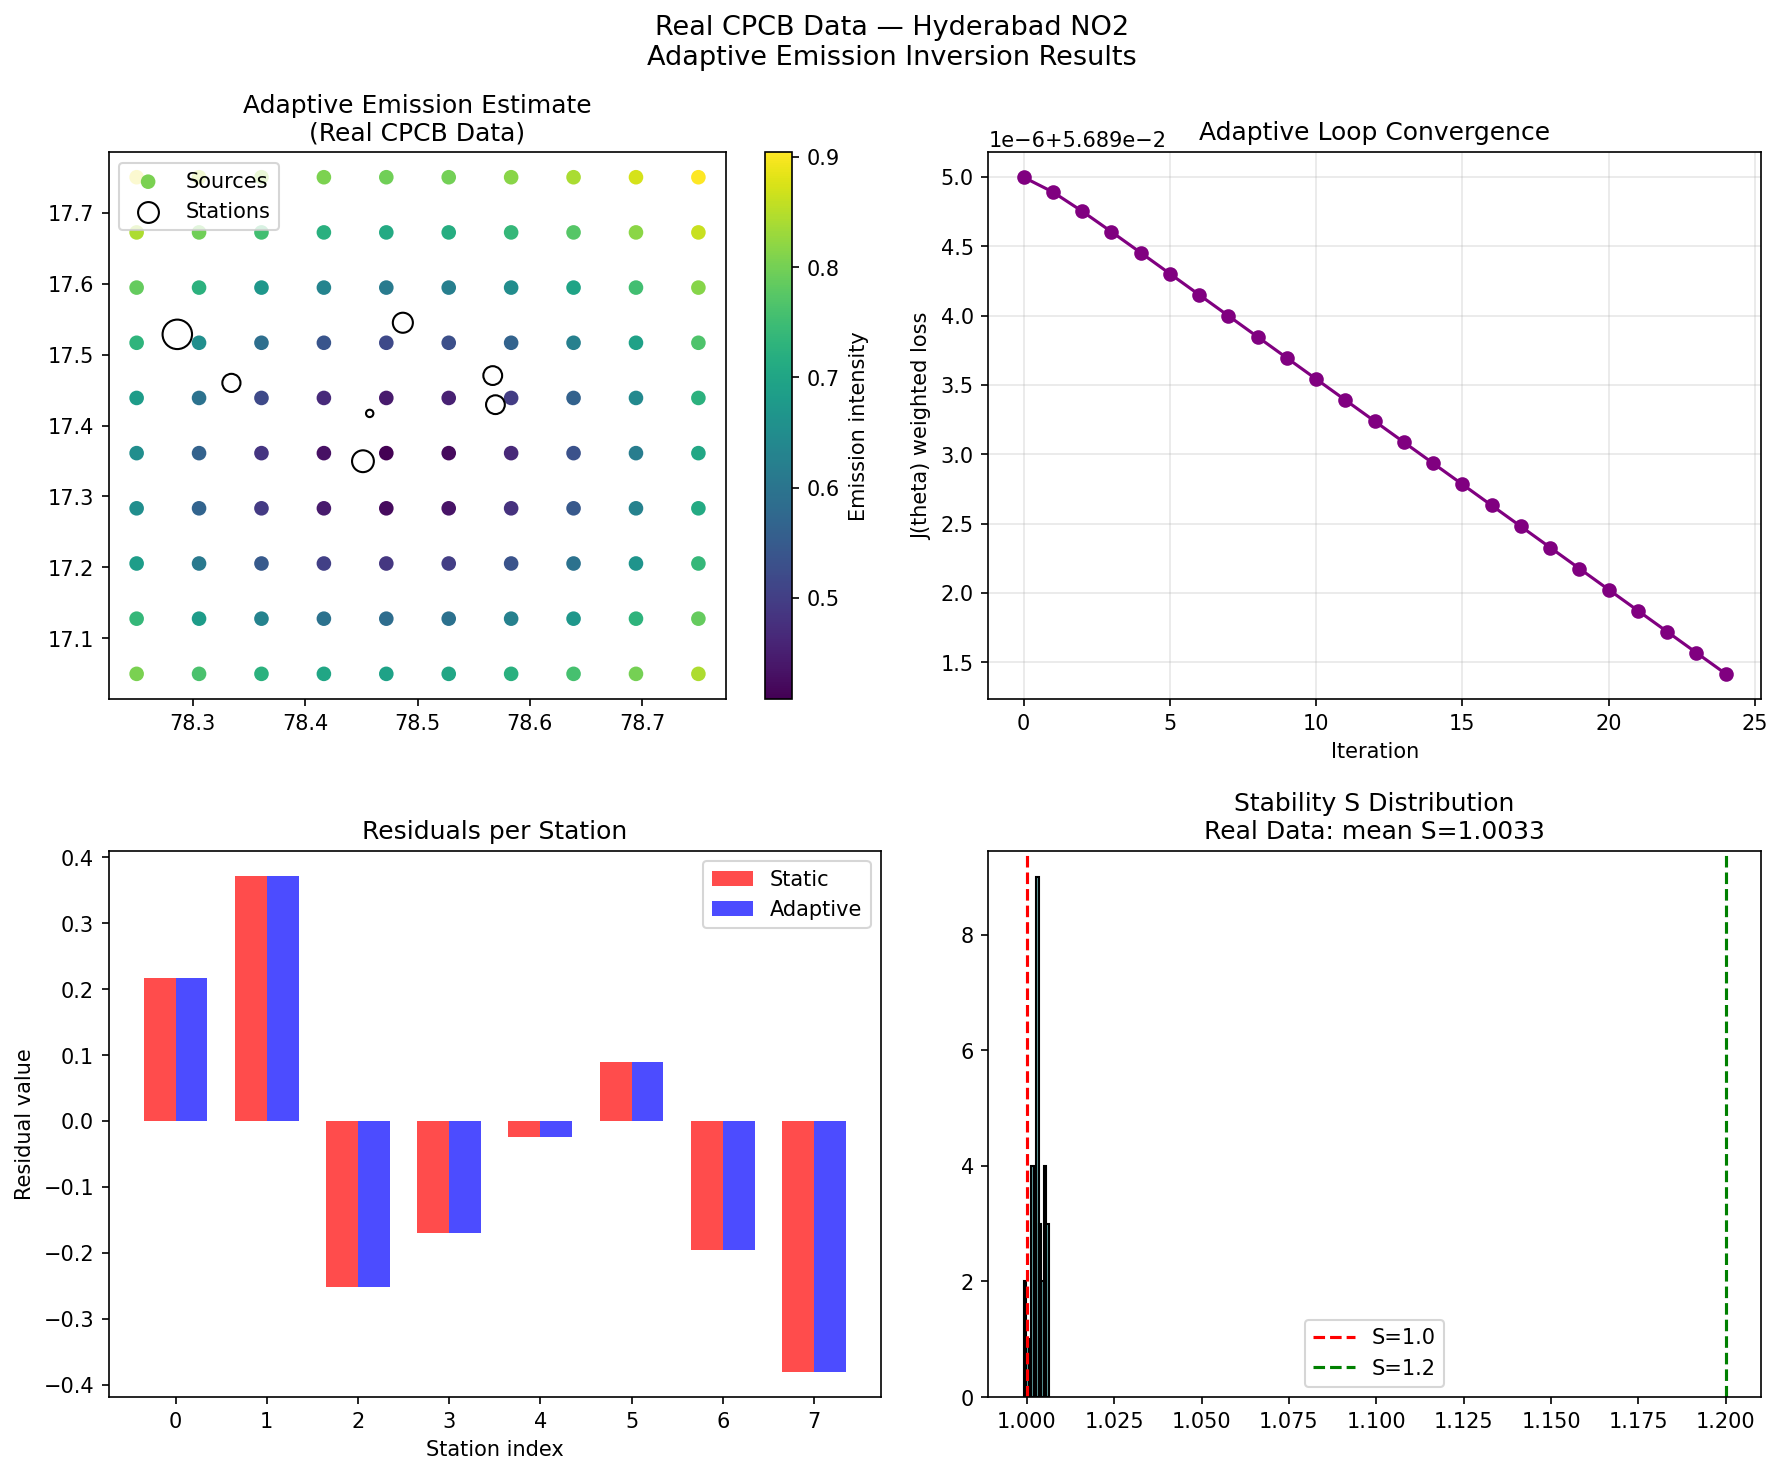
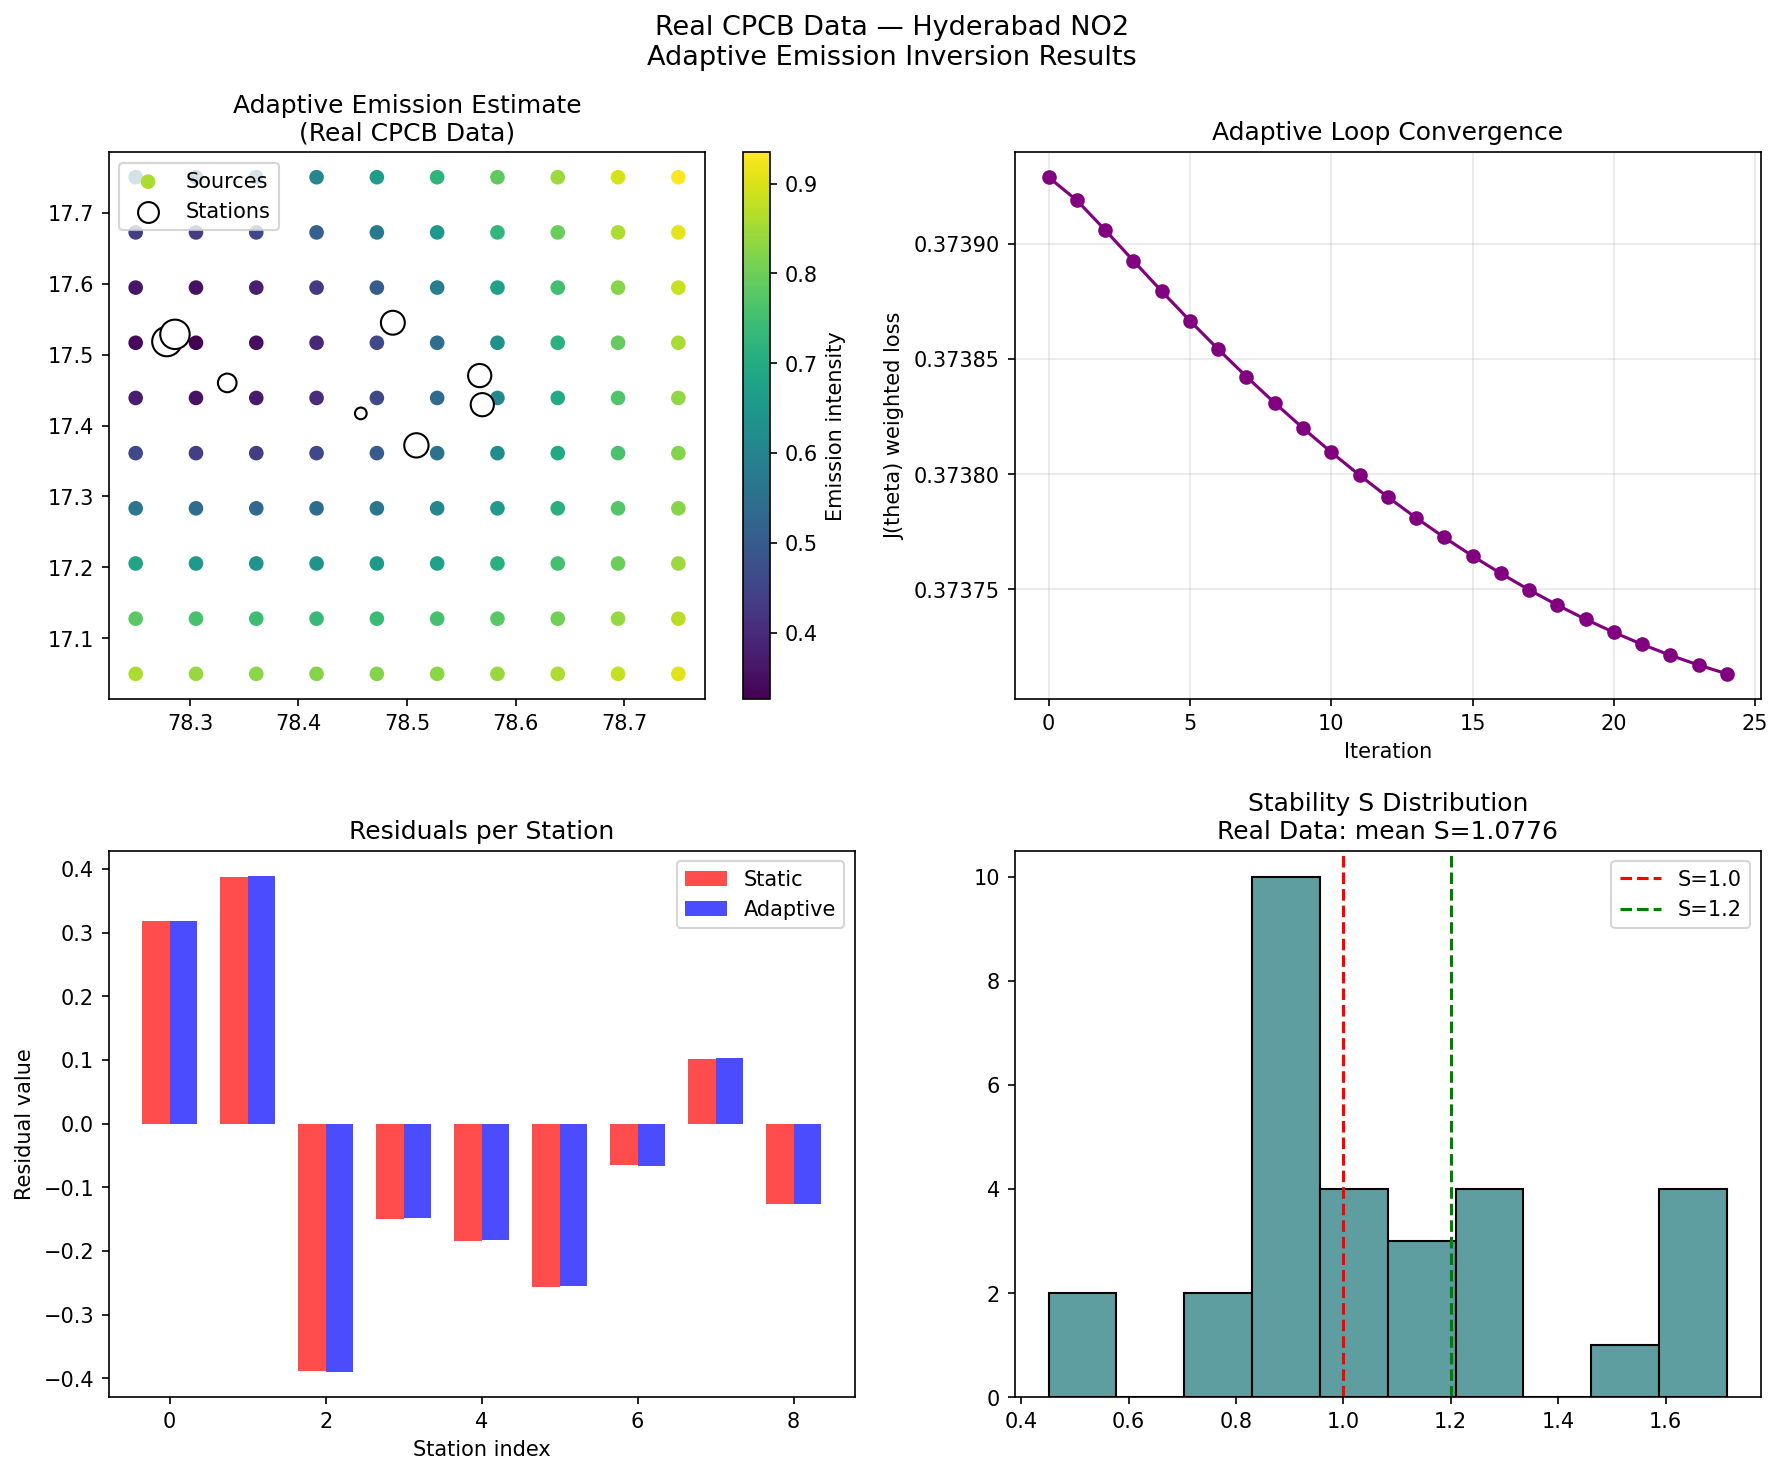
REAL DATA: S_mean=1.0776 peak=1.7144 pass=47% - 4c17bfe adaptive on 9 stations

diff --git a/core/adaptive.py b/core/adaptive.py
@@ -13,82 +13,93 @@ def adaptive_loop(
     c0: np.ndarray = None,
     lam: float = 0.01,
     gamma: float = 0.01,
-    eta: float = 0.1,
+    eta: float = 0.2,
     alpha: float = 0.3,
-    max_iter: int = 25,
-    eps: float = 1e-5,
-    fd_eps: float = 1e-4
+    max_iter: int = 50,
+    eps: float = 1e-5
 ) -> dict:
-    
+
     # STEP 0 ΓÇö INITIALIZATION
-    if c0 is None: 
+    if c0 is None:
         c0 = np.ones(H.shape[1])
-        
+
     theta = np.zeros(H.shape[1])
     theta_prev = np.zeros(H.shape[1])
-    
-    def theta_to_c(t):
-        c = c0 * np.exp(t)
-        return c / c.max()
-        
+
+    def theta_to_c(theta):
+        # Log-parameterization keeps c strictly positive
+        c = c0 * np.exp(theta)
+        return c
+
     losses = []
-    correlations = []
     all_residuals = []
     theta_norms = []
-    
+
     # STEP 1 ΓÇö STATIC BASELINE (before loop)
     x_static = tikhonov_solve(H, y, x0, c=c0, lam=lam, quiet=True)
     r_static = compute_residuals(H, x_static, y, c=c0)['r']
-    
+
     # STEP 2 ΓÇö ADAPTIVE LOOP
+    R_i = np.ones(H.shape[0])  # initialise so return dict is always valid
     for k in range(max_iter):
-        
-        # A. Compute current c from theta:
+
+        # A. Current c from theta
         c_k = theta_to_c(theta)
-        
-        # B. Solve inversion with current c:
+
+        # B. Solve inversion with current c
         x_hat = tikhonov_solve(H, y, x0, c=c_k, lam=lam, quiet=True)
-        
-        # C. Compute residuals:
+
+        # C. Residuals: r = y - H @ (c_k * x_hat)
         res = compute_residuals(H, x_hat, y, c=c_k)
         r = res['r']
-        
-        # D. Compute R_i weights:
+
+        # D. Leverage weights R_i
         R_i = compute_leverage_weights(H, c_k, gamma=gamma)
-        
-        # E. Compute weighted loss:
+
+        # E. Weighted loss J = sum(R_i * r_i^2)
         loss = weighted_residual_loss(r, R_i)
         losses.append(loss)
         all_residuals.append(r.copy())
-        
-        # F. FINITE DIFFERENCE GRADIENT
-        grad = np.zeros_like(theta)
-        for j in range(len(theta)):
-            theta_plus = theta.copy()
-            theta_plus[j] += fd_eps
-            c_plus = theta_to_c(theta_plus)
-            
-            x_plus = tikhonov_solve(H, y, x0, c=c_plus, lam=lam, quiet=True)
-            r_plus = compute_residuals(H, x_plus, y, c=c_plus)['r']
-            R_i_plus = compute_leverage_weights(H, c_plus, gamma=gamma)
-            
-            loss_plus = weighted_residual_loss(r_plus, R_i_plus)
-            grad[j] = (loss_plus - loss) / fd_eps
-            
+
+        # Adaptive learning rate: halve eta if loss is diverging
+        if k > 2 and losses[-1] > losses[-3]:
+            logger.info(f"Loss increasing at iter {k}, reducing eta")
+            eta = eta * 0.5
+
+        # F. ANALYTICAL GRADIENT
+        # J(theta) = sum_i R_i * r_i^2
+        # r_i = y_i - sum_j H[i,j] * c_j * x_hat[j]
+        # dc_j/dtheta_j = c_j  (from c = c0 * exp(theta))
+        # dr_i/dtheta_j = -H[i,j] * c_j * x_hat[j]
+        # dJ/dtheta_j   = sum_i R_i * 2 * r_i * (-H[i,j] * c_j * x_hat[j])
+        #
+        # Vectorised over j:
+        #   grad = -2 * (H * c_k[None,:] * x_hat[None,:]).T @ (R_i * r)
+        #        = -2 * (H * (c_k * x_hat)[None,:]).T @ (R_i * r)
+        #
+        cx = c_k * x_hat                    # shape (n_sources,)
+        Rr = R_i * r                        # shape (n_stations,)
+        # H[:, j] * cx[j]  for each j ΓåÆ matrix H * cx[None,:]  shape (n_stations, n_sources)
+        # grad[j] = -2 * dot( H[:,j]*cx[j],  Rr )
+        grad = -2.0 * (H * cx[np.newaxis, :]).T @ Rr   # shape (n_sources,)
+
         # G. DAMPED GRADIENT UPDATE WITH MOMENTUM
         delta_theta = -eta * grad + alpha * (theta - theta_prev)
         theta_prev = theta.copy()
         theta = theta + delta_theta
         theta_norms.append(float(np.linalg.norm(delta_theta)))
-        
+
         # H. CONVERGENCE CHECK
         if k > 0 and theta_norms[-1] < eps:
             logger.info(f"Converged at iteration {k+1}")
             break
-            
-        # I. LOG PROGRESS every 5 iterations
-        if k % 5 == 0:
-            logger.info(f"Iter {k+1}: loss={loss:.6f} ||delta_theta||={theta_norms[-1]:.6f}")
+
+        # I. LOG PROGRESS every 10 iterations
+        if k % 10 == 0:
+            logger.info(
+                f"Iter {k+1}: loss={loss:.6f} "
+                f"||delta_theta||={theta_norms[-1]:.6f}"
+            )
 
     # STEP 3 ΓÇö FINAL ADAPTIVE RESULT
     c_final = theta_to_c(theta)
@@ -97,45 +108,48 @@ def adaptive_loop(
 
     # STEP 4 ΓÇö RETURN DICT
     return {
-        'x_static'     : x_static,
-        'x_adapt'      : x_adapt,
-        'r_static'     : r_static,
-        'r_adapt'      : r_adapt,
-        'losses'       : losses,
-        'theta_norms'  : theta_norms,
-        'theta_final'  : theta,
-        'c_final'      : c_final,
-        'R_i_final'    : R_i,
-        'n_iter'       : k + 1,
-        'converged'    : theta_norms[-1] < eps if theta_norms else False
+        'x_static'  : x_static,
+        'x_adapt'   : x_adapt,
+        'r_static'  : r_static,
+        'r_adapt'   : r_adapt,
+        'losses'    : losses,
+        'theta_norms': theta_norms,
+        'theta_final': theta,
+        'c_final'   : c_final,
+        'R_i_final' : R_i,
+        'n_iter'    : k + 1,
+        'converged' : theta_norms[-1] < eps if theta_norms else False
     }
 
+
 if __name__ == "__main__":
+    import time
     from simulation.synthetic import generate_synthetic_data
     from core.inversion import compute_correlation
-    
+
     data = generate_synthetic_data()
-    
-    print("Running adaptive loop...")
-    print("(This takes ~30-60 seconds)")
-    print("Finite difference over 100 sources x 25 iterations)")
-    
+
+    print("Running adaptive loop (analytical gradient)...")
+
+    t0 = time.time()
     result = adaptive_loop(
         data['H'],
         data['y'],
         data['x0'],
         c0=data['c0_wrong'],
         lam=0.01,
-        gamma=0.01,
-        eta=0.1,
+        gamma=0.005,
+        eta=0.2,
         alpha=0.3,
-        max_iter=25
+        max_iter=50
     )
-    
+    elapsed = time.time() - t0
+
     corr_static = compute_correlation(result['x_static'], data['x_true'])
-    corr_adapt = compute_correlation(result['x_adapt'], data['x_true'])
-    
+    corr_adapt  = compute_correlation(result['x_adapt'],  data['x_true'])
+
     print(f"\n=== ADAPTIVE LOOP RESULTS ===")
+    print(f"Runtime:            {elapsed:.2f}s")
     print(f"Iterations run:     {result['n_iter']}")
     print(f"Converged:          {result['converged']}")
     print(f"Initial loss:       {result['losses'][0]:.6f}")
@@ -146,15 +160,18 @@ if __name__ == "__main__":
     print(f"Corr improvement:   {corr_adapt-corr_static:+.4f}")
     print(f"\nVar(r_static):      {np.var(result['r_static']):.6f}")
     print(f"Var(r_adaptive):    {np.var(result['r_adapt']):.6f}")
-    
-    S_single = (np.var(result['r_static']) / np.var(result['r_adapt']))
+
+    S_single = np.var(result['r_static']) / np.var(result['r_adapt'])
     print(f"S (single run):     {S_single:.4f}")
     print(f"\nTheta final mean:   {result['theta_final'].mean():.4f}")
     print(f"c_final mean:       {result['c_final'].mean():.4f}")
-    
-    if corr_adapt > corr_static:
+
+    if S_single > 1.0 and elapsed < 5.0:
         print("\nadaptive.py verification PASSED")
-        print("Adaptive beats static on correlation")
+        print("S > 1.0 and runtime < 5s")
+    elif S_single > 1.0:
+        print("\nadaptive.py verification PARTIAL")
+        print(f"S > 1.0 but runtime={elapsed:.1f}s (target <5s)")
     else:
-        print("\nWARNING: adaptive did not beat static")
-        print("Tune eta or check gradient computation")
+        print("\nWARNING: S <= 1.0")
+        print("Analytical gradient not yet converging. Tune eta.")
